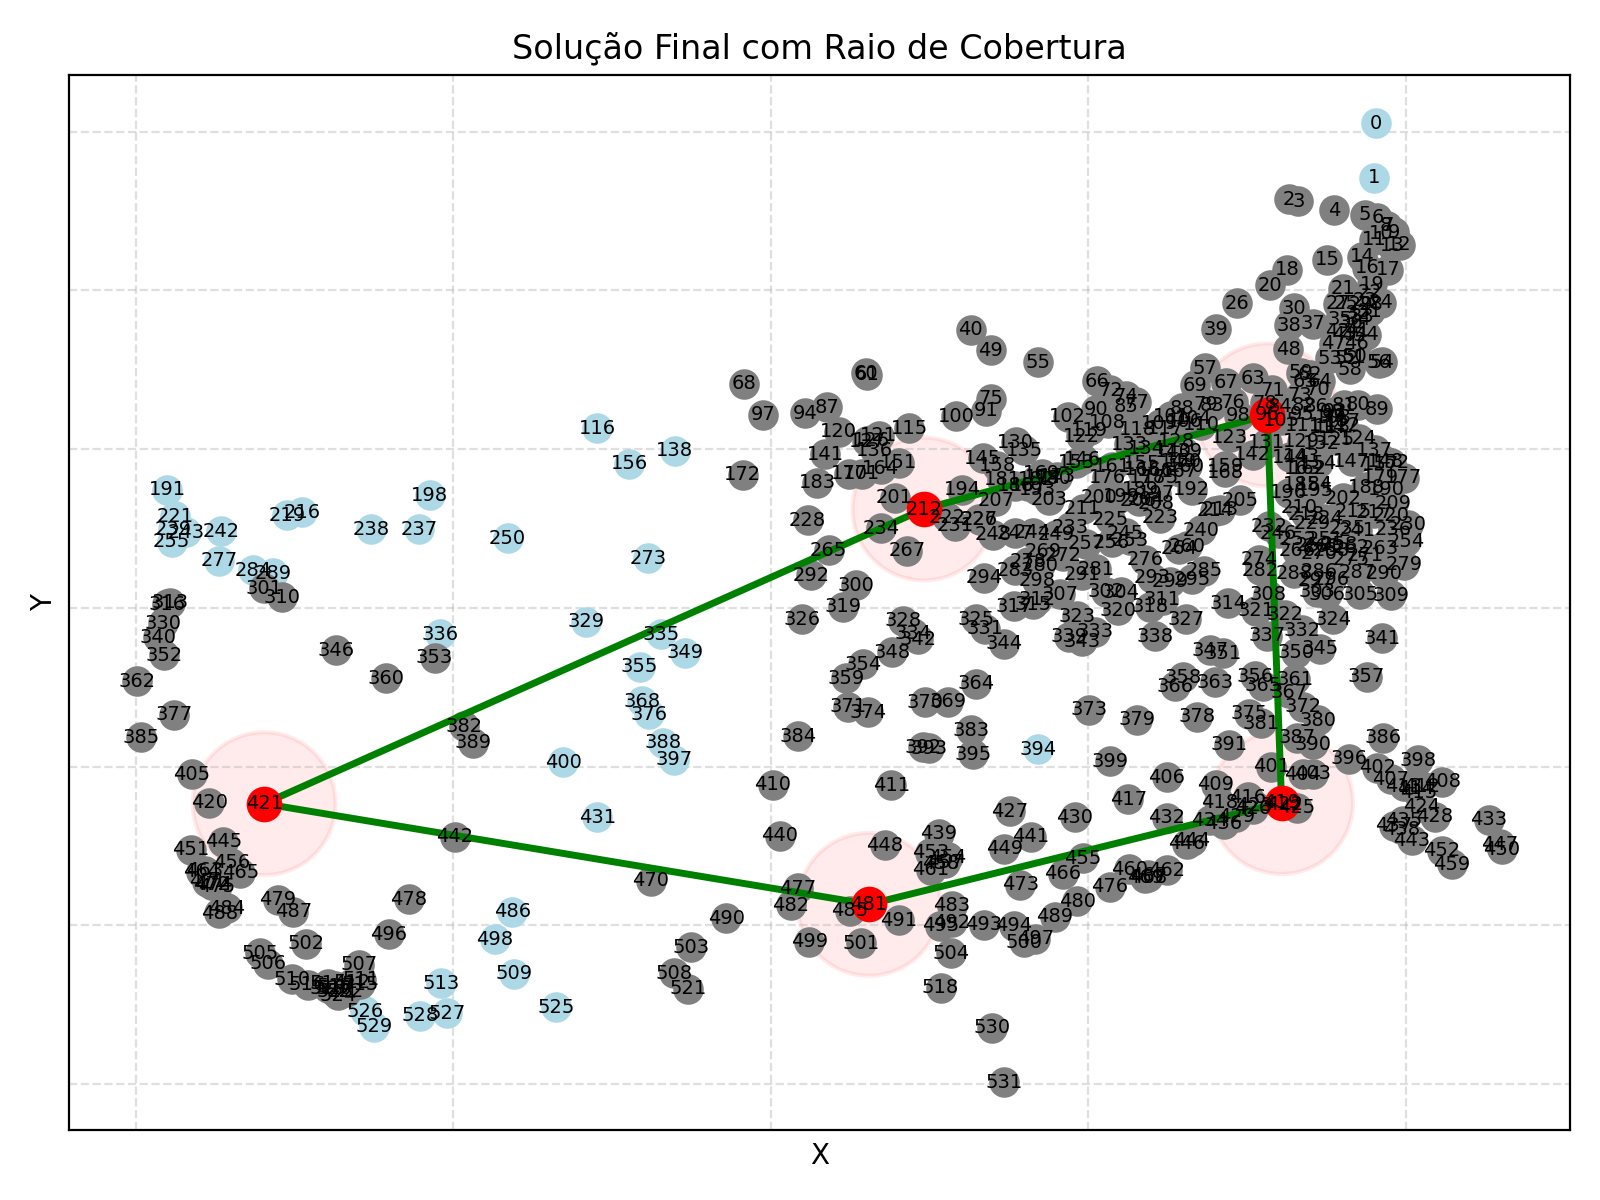
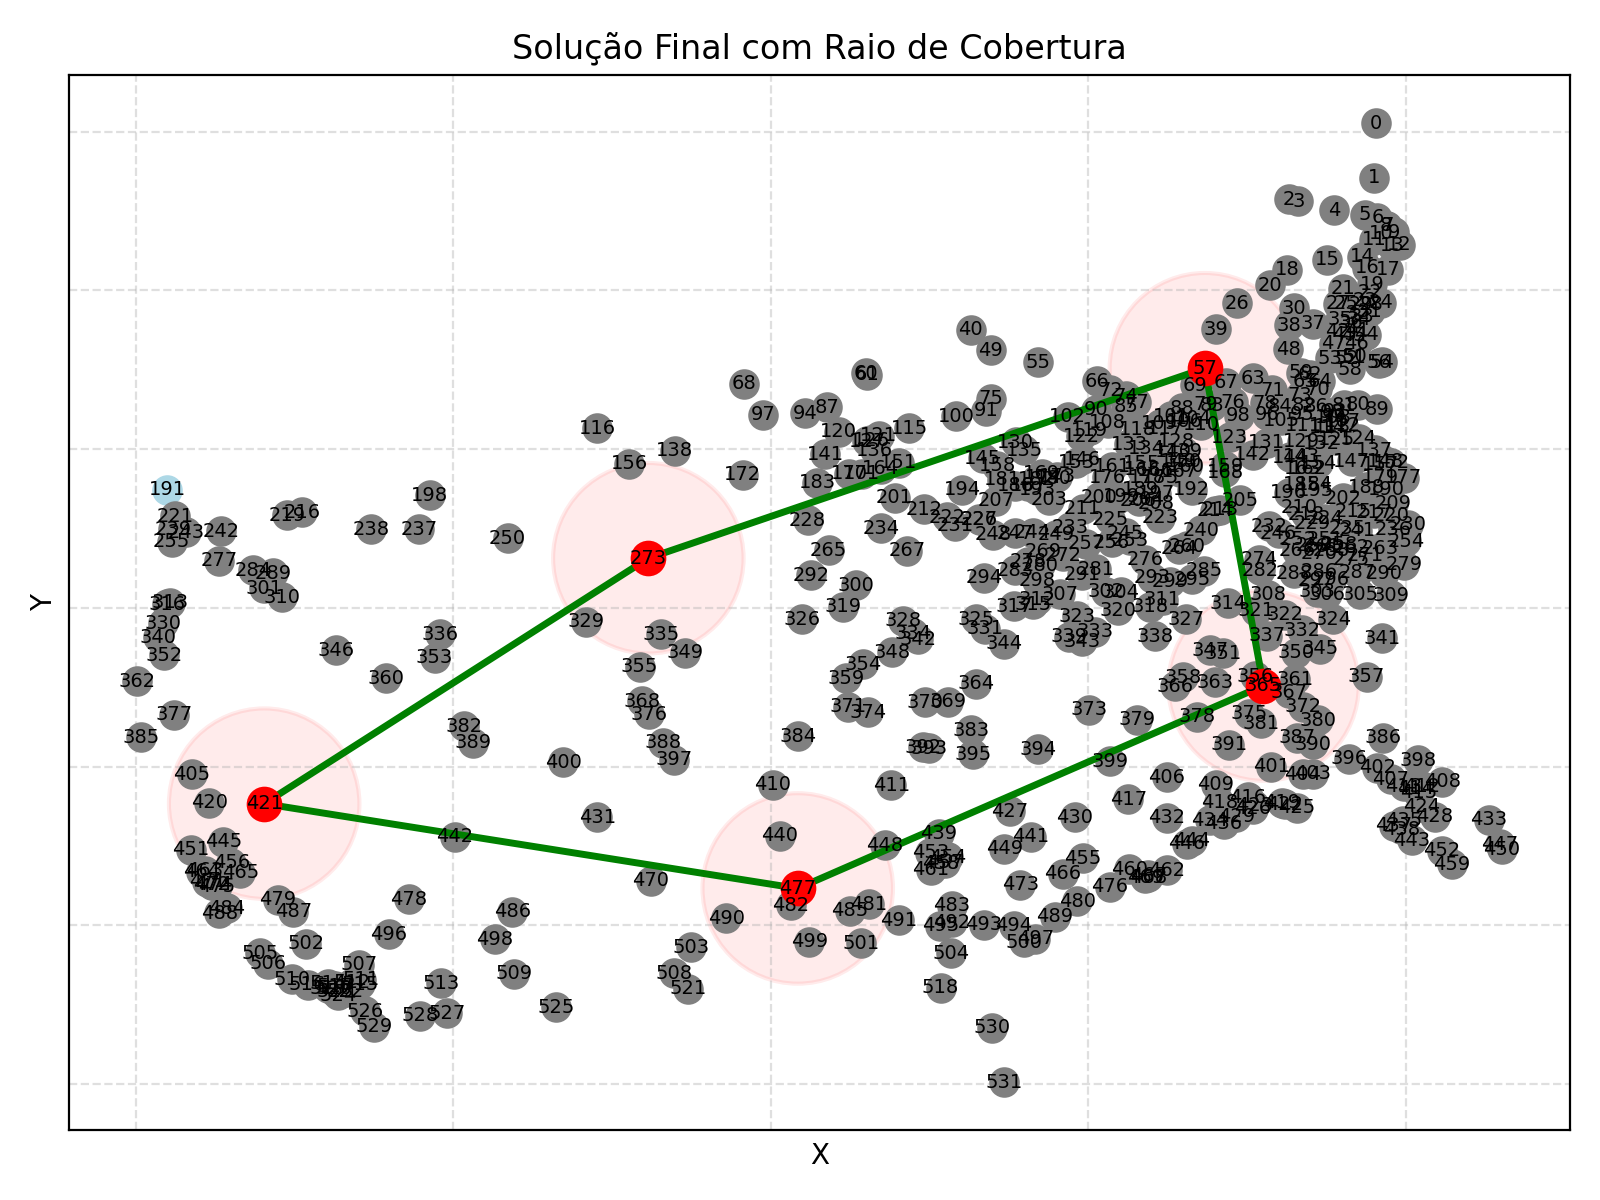
desenhando corretamente plot de instancia att

diff --git a/grasp_main.py b/grasp_main.py
@@ -213,7 +213,7 @@ def read_tsplib_instance(filename):
             edges.append((i, j, d))
             edges.append((j, i, d))
 
-    return n, edges, coords
+    return n, edges, coords, edge_weight_type
 
 
 # ---------- TSP heurística (inserção mais próxima) ---------------------
@@ -765,6 +765,14 @@ def plot_final_solution(graph, best_sol, best_tour, radius):
 
     pos = {node: graph.nodes[node]["pos"] for node in graph.nodes}
 
+    edge_weight_type = graph.graph.get("edge_weight_type", "EUC_2D")
+
+    if edge_weight_type == "ATT":
+        visual_radius = radius * math.sqrt(10)
+    else:
+        visual_radius = radius
+
+
     # calcular nós cobertos
     covered = set(best_sol)
     for v in best_sol:
@@ -783,7 +791,7 @@ def plot_final_solution(graph, best_sol, best_tour, radius):
         x, y = pos[v]
         circle = Circle(
             (x, y),
-            radius,
+            visual_radius,
             edgecolor='red',
             facecolor='red',
             alpha=0.08,
@@ -878,9 +886,10 @@ def plot_final_solution(graph, best_sol, best_tour, radius):
 def run_instance(instance_file, p, radius, max_iter, plot=True, auto_parameters=False):
 
     # ----- Carrega instância -----
-    n, edges, coords = read_tsplib_instance(instance_file)
+    n, edges, coords, edge_weight_type = read_tsplib_instance(instance_file)
 
     g = nx.Graph()
+    g.graph["edge_weight_type"] = edge_weight_type
     for i, (x, y) in enumerate(coords):
         g.add_node(i, pos=(x, y))
 
@@ -901,15 +910,11 @@ def run_instance(instance_file, p, radius, max_iter, plot=True, auto_parameters=
 
     spatial_neighbors = []
     for v in range(n):
-        xv, yv = coords[v]
         neigh = []
         for w in range(n):
             if w == v:
                 continue
-            xw, yw = coords[w]
-            dx = xv - xw
-            dy = yv - yw
-            if dx*dx + dy*dy <= limit2:
+            if g[v][w]["weight"] <= limit:
                 neigh.append(w)
         spatial_neighbors.append(neigh)
 

diff --git a/vns_vnd_main.py b/vns_vnd_main.py
@@ -214,7 +214,7 @@ def read_tsplib_instance(filename):
             edges.append((i, j, d))
             edges.append((j, i, d))
 
-    return n, edges, coords
+    return n, edges, coords, edge_weight_type
 
 
 # ---------- TSP heurística (inserção mais próxima) ---------------------
@@ -649,6 +649,14 @@ def plot_final_solution(graph, best_sol, best_tour, radius):
 
     pos = {node: graph.nodes[node]["pos"] for node in graph.nodes}
 
+    edge_weight_type = graph.graph.get("edge_weight_type", "EUC_2D")
+
+    if edge_weight_type == "ATT":
+        visual_radius = radius * math.sqrt(10)
+    else:
+        visual_radius = radius
+
+
     # calcular nós cobertos
     covered = set(best_sol)
     for v in best_sol:
@@ -667,7 +675,7 @@ def plot_final_solution(graph, best_sol, best_tour, radius):
         x, y = pos[v]
         circle = Circle(
             (x, y),
-            radius,
+            visual_radius,
             edgecolor='red',
             facecolor='red',
             alpha=0.08,
@@ -762,9 +770,10 @@ def plot_final_solution(graph, best_sol, best_tour, radius):
 def run_instance(instance_file, p, radius, max_iter, plot=True, auto_parameters=False):
 
     # ----- Carrega instância -----
-    n, edges, coords = read_tsplib_instance(instance_file)
+    n, edges, coords, edge_weight_type = read_tsplib_instance(instance_file)
 
     g = nx.Graph()
+    g.graph["edge_weight_type"] = edge_weight_type
     for i, (x, y) in enumerate(coords):
         g.add_node(i, pos=(x, y))
 

diff --git a/author_main.py b/author_main.py
@@ -212,7 +212,7 @@ def read_tsplib_instance(filename):
             edges.append((i, j, d))
             edges.append((j, i, d))
 
-    return n, edges, coords
+    return n, edges, coords, edge_weight_type
 
 
 # ---------- TSP heurística (inserção mais próxima) ---------------------
@@ -507,9 +507,10 @@ def plot_final_solution(graph, best_sol, best_tour, radius):
 
 def run_instance(instance_file, p, radius, max_iter, alpha, plot=True):
     # Carrega instância
-    n, edges, coords = read_tsplib_instance(instance_file)
+    n, edges, coords, edge_weight_type = read_tsplib_instance(instance_file)
 
     g = nx.Graph()
+    g.graph["edge_weight_type"] = edge_weight_type
     for i, (x, y) in enumerate(coords):
         g.add_node(i, pos=(x, y))
 

diff --git a/one_swap_main.py b/one_swap_main.py
@@ -212,7 +212,7 @@ def read_tsplib_instance(filename):
             edges.append((i, j, d))
             edges.append((j, i, d))
 
-    return n, edges, coords
+    return n, edges, coords, edge_weight_type
 
 
 # ---------- TSP heurística (inserção mais próxima) ---------------------
@@ -506,9 +506,10 @@ def plot_final_solution(graph, best_sol, best_tour, radius):
 
 def run_instance(instance_file, p, radius, max_iter, plot=True, auto_parameters=False):
     # Carrega instância
-    n, edges, coords = read_tsplib_instance(instance_file)
+    n, edges, coords, edge_weight_type = read_tsplib_instance(instance_file)
 
     g = nx.Graph()
+    g.graph["edge_weight_type"] = edge_weight_type
     for i, (x, y) in enumerate(coords):
         g.add_node(i, pos=(x, y))
 